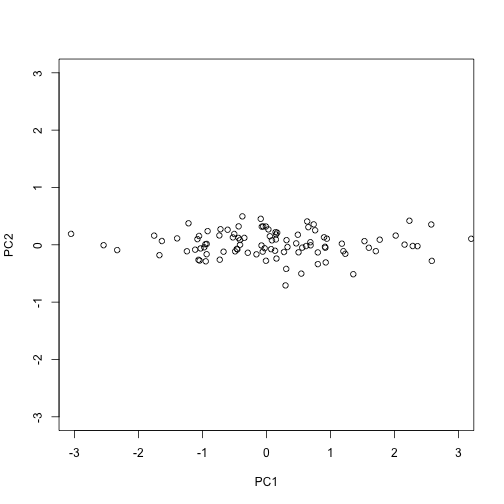
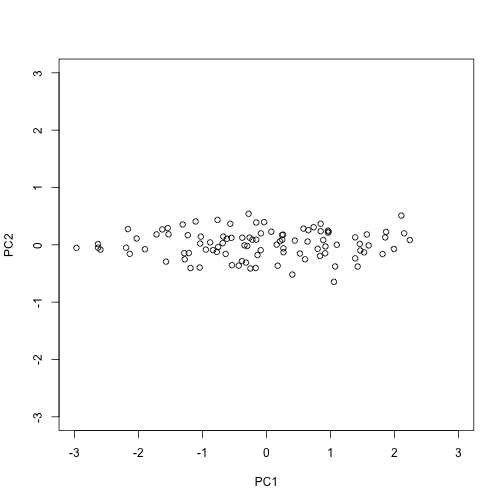
adding svd to book

diff --git a/manuscript/svd.md b/manuscript/svd.md
@@ -9,7 +9,7 @@ title: Singular Value Decomposition
 
 The R markdown document for this section is available [here](https://github.com/genomicsclass/labs/tree/master/highdim/svd.Rmd).
 
-In the previous section we motivated dimension reduction and showed a transformation that permitted us to approximate the distance between two dimensional points with the distance between points with just one dimension. The singular value decomposition (SVD) is a generalization of the algorithm we used in the motivational section. As in the example, the SVD provides a transformation of the original data. As we will see, this transformation has some very useful properties. 
+In the previous section, we motivated dimension reduction and showed a transformation that permitted us to approximate the distance between two dimensional points with just one dimension. The singular value decomposition (SVD) is a generalization of the algorithm we used in the motivational section. As in the example, the SVD provides a transformation of the original data. This transformation has some very useful properties. 
 
 The main result SVD provides is that we can write an {$$}m \times n{/$$}, matrix {$$}\mathbf{Y}{/$$} as
 
@@ -21,16 +21,16 @@ With:
 * {$$}\mathbf{V}{/$$} is an {$$}p \times p{/$$} orthogonal matrix
 * {$$}\mathbf{D}{/$$} is an {$$}n \times p{/$$} diagonal matrix 
 
-with {$$}p=\mbox{min}(m,n){/$$}. Note that {$$}\mathbf{U}^\top{/$$} provides a rotation of our data {$$}\mathbf{Y}{/$$} that turns out to be very useful because the variability (sum of squares to be precise) of the columns of {$$}\mathbf{U}^\top \mathbf{Y}=\mathbf{VD}{/$$} are decreasing.
-Also note that because {$$}\mathbf{U}{/$$} is orthogonal, we can wrtie the SVD like this: 
+with {$$}p=\mbox{min}(m,n){/$$}. {$$}\mathbf{U}^\top{/$$} provides a rotation of our data {$$}\mathbf{Y}{/$$} that turns out to be very useful because the variability (sum of squares to be precise) of the columns of {$$}\mathbf{U}^\top \mathbf{Y}=\mathbf{VD}{/$$} are decreasing.
+Because {$$}\mathbf{U}{/$$} is orthogonal, we can write the SVD like this: 
 
 {$$}\mathbf{Y} = \mathbf{UDV}^\top{/$$}
 
-In fact, this formula is much more commonly used. Also note that we can write the transformation like this:
+In fact, this formula is much more commonly used. We can also write the transformation like this:
 
 {$$}\mathbf{YV} = \mathbf{UD}{/$$}
 
-This transformaton of {$$}Y{/$$} also results in a matrix with column of decreasing sum of squares.
+This transformation of {$$}Y{/$$} also results in a matrix with column of decreasing sum of squares.
 
 
 Applying the SVD to the motivating example we have:
@@ -52,11 +52,11 @@ round(sqrt(2) * s$u , 3)
 
 ```
 ##        [,1]   [,2]
-## [1,] -1.022 -0.978
-## [2,] -0.978  1.022
+## [1,] -0.973 -1.026
+## [2,] -1.026  0.973
 ```
 
-The plot we showed after the rotation, was showing what we call the _principal components_: the second plotted againts the first. To obtain the principal components from the SVD we simply need the columns of the rotation {$$}\mathbf{U}^\top\mathbf{Y}{/$$} :
+The plot we showed after the rotation, was showing what we call the _principal components_: the second plotted against the first. To obtain the principal components from the SVD, we simply need the columns of the rotation {$$}\mathbf{U}^\top\mathbf{Y}{/$$} :
 
 
 ```r
@@ -68,9 +68,9 @@ plot(PC1,PC2,xlim=c(-3,3),ylim=c(-3,3))
 ![Second PC plotted against first PC for the twins height data](images/R/svd-tmp-PCAplot-1.png) 
 
 
-### How is this useful?
+#### How is this useful?
 
-It is not immediately obvious how incredibly useful the SVD can be so let's consider some examples. In this example we will greatly reduce the dimension of {$$}V{/$$} and still be able to reconstruct {$$}Y{/$$}.
+It is not immediately obvious how incredibly useful the SVD can be, so let's consider some examples. In this example, we will greatly reduce the dimension of {$$}V{/$$} and still be able to reconstruct {$$}Y{/$$}.
 
 Let's compute the SVD on the gene expression table we have been working with. We will take a subset of 100 genes so that computations are faster.
 
@@ -91,7 +91,7 @@ V <- s$v
 D <- diag(s$d) ##turn it into a matrix
 ```
 
-First note that we can in fact reconstruct y
+First note that we can in fact reconstruct y:
 
 
 ```r
@@ -104,7 +104,7 @@ max(abs(resid))
 ## [1] 3.508305e-14
 ```
 
-If we look at the sum of squares of {$$}\mathbf{UD}{/$$} we see that the last few are quite close to 0 (perhaps we have some replicated columns).  
+If we look at the sum of squares of {$$}\mathbf{UD}{/$$}, we see that the last few are quite close to 0 (perhaps we have some replicated columns).  
 
 
 ```r
@@ -113,7 +113,7 @@ plot(s$d)
 
 ![Entries of the diagonal of D for gene expression data.](images/R/svd-tmp-D_entries-1.png) 
 
-This implies that the last columns of `V` have a very small effect on the reconstruction of `Y`. To see this consider the extreme example in which the last entry of {$$}V{/$$} is 0. In this case the last column of {$$}V{/$$} is not needed at all. Because of the way the SVD is created, the columns of {$$}V{/$$}, have less and less influence on the reconstruction of {$$}Y{/$$}. You commonly see this described as "explaining less varinace". This implies that for a large matrix, by the time you get to the last columns it is possible that there is not much left to "explain" As an example, we will look at what happens if we remove the four last column?
+This implies that the last columns of `V` have a very small effect on the reconstruction of `Y`. To see this, consider the extreme example in which the last entry of {$$}V{/$$} is 0. In this case the last column of {$$}V{/$$} is not needed at all. Because of the way the SVD is created, the columns of {$$}V{/$$}, have less and less influence on the reconstruction of {$$}Y{/$$}. You commonly see this described as "explaining less variance". This implies that for a large matrix, by the time you get to the last columns, it is possible that there is not much left to "explain" As an example, we will look at what happens if we remove the four last columns:
 
 
 ```r
@@ -127,9 +127,9 @@ max(abs(resid))
 ## [1] 3.508305e-14
 ```
 
-The larges residual is practically 0, meaning that we `Yhat` is practically the same as `Y`, yet we need 4 less dimensions to transmit the information.
+The largest residual is practically 0, meaning that we `Yhat` is practically the same as `Y`, yet we need 4 less dimensions to transmit the information.
 
-By looking at {$$}d{/$$}, we can see that in this particular dataset we can obtain a good approximation keeping only 94 columns. The following plots are useful for seeing how much of the variability is explained by each column:
+By looking at {$$}d{/$$}, we can see that, in this particular dataset, we can obtain a good approximation keeping only 94 columns. The following plots are useful for seeing how much of the variability is explained by each column:
 
 
 ```r
@@ -138,7 +138,7 @@ plot(s$d^2/sum(s$d^2)*100,ylab="Percent variability explained")
 
 ![Percent variance explained by each principal component of gene expression data.](images/R/svd-tmp-percent_var_explained-1.png) 
 
-We can also make cumulative plot
+We can also make a cumulative plot:
 
 
 ```r
@@ -147,7 +147,7 @@ plot(cumsum(s$d^2)/sum(s$d^2)*100,ylab="Percent variability explained",ylim=c(0,
 
 ![Cumulative variance explained by principal components of gene expression data.](images/R/svd-tmp-cum_variance_explained-1.png) 
 
-We see that although we start with 189 dimensions we can approximate {$$}Y{/$$} with just 95:
+Although we start with 189 dimensions, we can approximate {$$}Y{/$$} with just 95:
 
 
 ```r
@@ -159,7 +159,7 @@ boxplot(resid,ylim=quantile(Y,c(0.01,0.99)),range=0)
 
 ![Residuals from comparing a reconstructed gene expression table using 95 PCs to the original data with 189 dimensions.](images/R/svd-tmp-reconstruction_with_less_dimensions-1.png) 
 
-Therefore, by using only half as many dimensions we retain most of the variability in our data:
+Therefore, by using only half as many dimensions, we retain most of the variability in our data:
 
 
 ```r
@@ -181,9 +181,9 @@ Note that we can compute this proportion from {$$}D{/$$}:
 ```
 ## [1] 0.04076899
 ```
-Thus the entries of {$$}D{/$$} tell us how much each PC contributes in term of variability explained.
+The entries of {$$}D{/$$} therefore tell us how much each PC contributes in term of variability explained.
 
-### Highly correlated data
+#### Highly correlated data
 
 To help understand how the SVD works, we construct a dataset with two highly correlated columns. 
 
@@ -216,7 +216,7 @@ d[1]^2/sum(d^2)
 ## [1] 0.9999441
 ```
 
-In cases with many correlated columns we can achieve great dimension reduction:
+In cases with many correlated columns, we can achieve great dimension reduction:
 
 
 ```r
